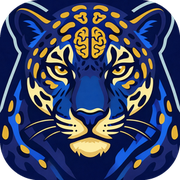
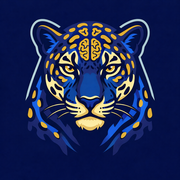
Ícone do app: onça da Yawara e manifesto para instalar no celular
Claude-Session: https://claude.ai/code/session_01QWHZ5sP7mVnTYrxoyHuu6v

diff --git a/src/app/manifest.ts b/src/app/manifest.ts
@@ -1,0 +1,20 @@
+import type { MetadataRoute } from "next";
+
+export default function manifest(): MetadataRoute.Manifest {
+  return {
+    name: "Central Yawara",
+    short_name: "Yawara",
+    description: "Plataforma interna da Atlética Yawara de Psicologia",
+    start_url: "/",
+    scope: "/",
+    display: "standalone",
+    background_color: "#041046",
+    theme_color: "#030820",
+    lang: "pt-BR",
+    icons: [
+      { src: "/app/icone-192.png", sizes: "192x192", type: "image/png", purpose: "any" },
+      { src: "/app/icone-512.png", sizes: "512x512", type: "image/png", purpose: "any" },
+      { src: "/app/icone-maskable-512.png", sizes: "512x512", type: "image/png", purpose: "maskable" },
+    ],
+  };
+}

diff --git a/src/app/layout.tsx b/src/app/layout.tsx
@@ -32,6 +32,7 @@ export const metadata: Metadata = {
   title: { default: "Central Yawara", template: "%s · Central Yawara" },
   description: "Plataforma interna de gestão da Associação Atlética Acadêmica de Psicologia Yawara — versão de demonstração.",
   robots: { index: false, follow: false },
+  appleWebApp: { capable: true, title: "Yawara", statusBarStyle: "black-translucent" },
 };
 
 export const viewport: Viewport = {
